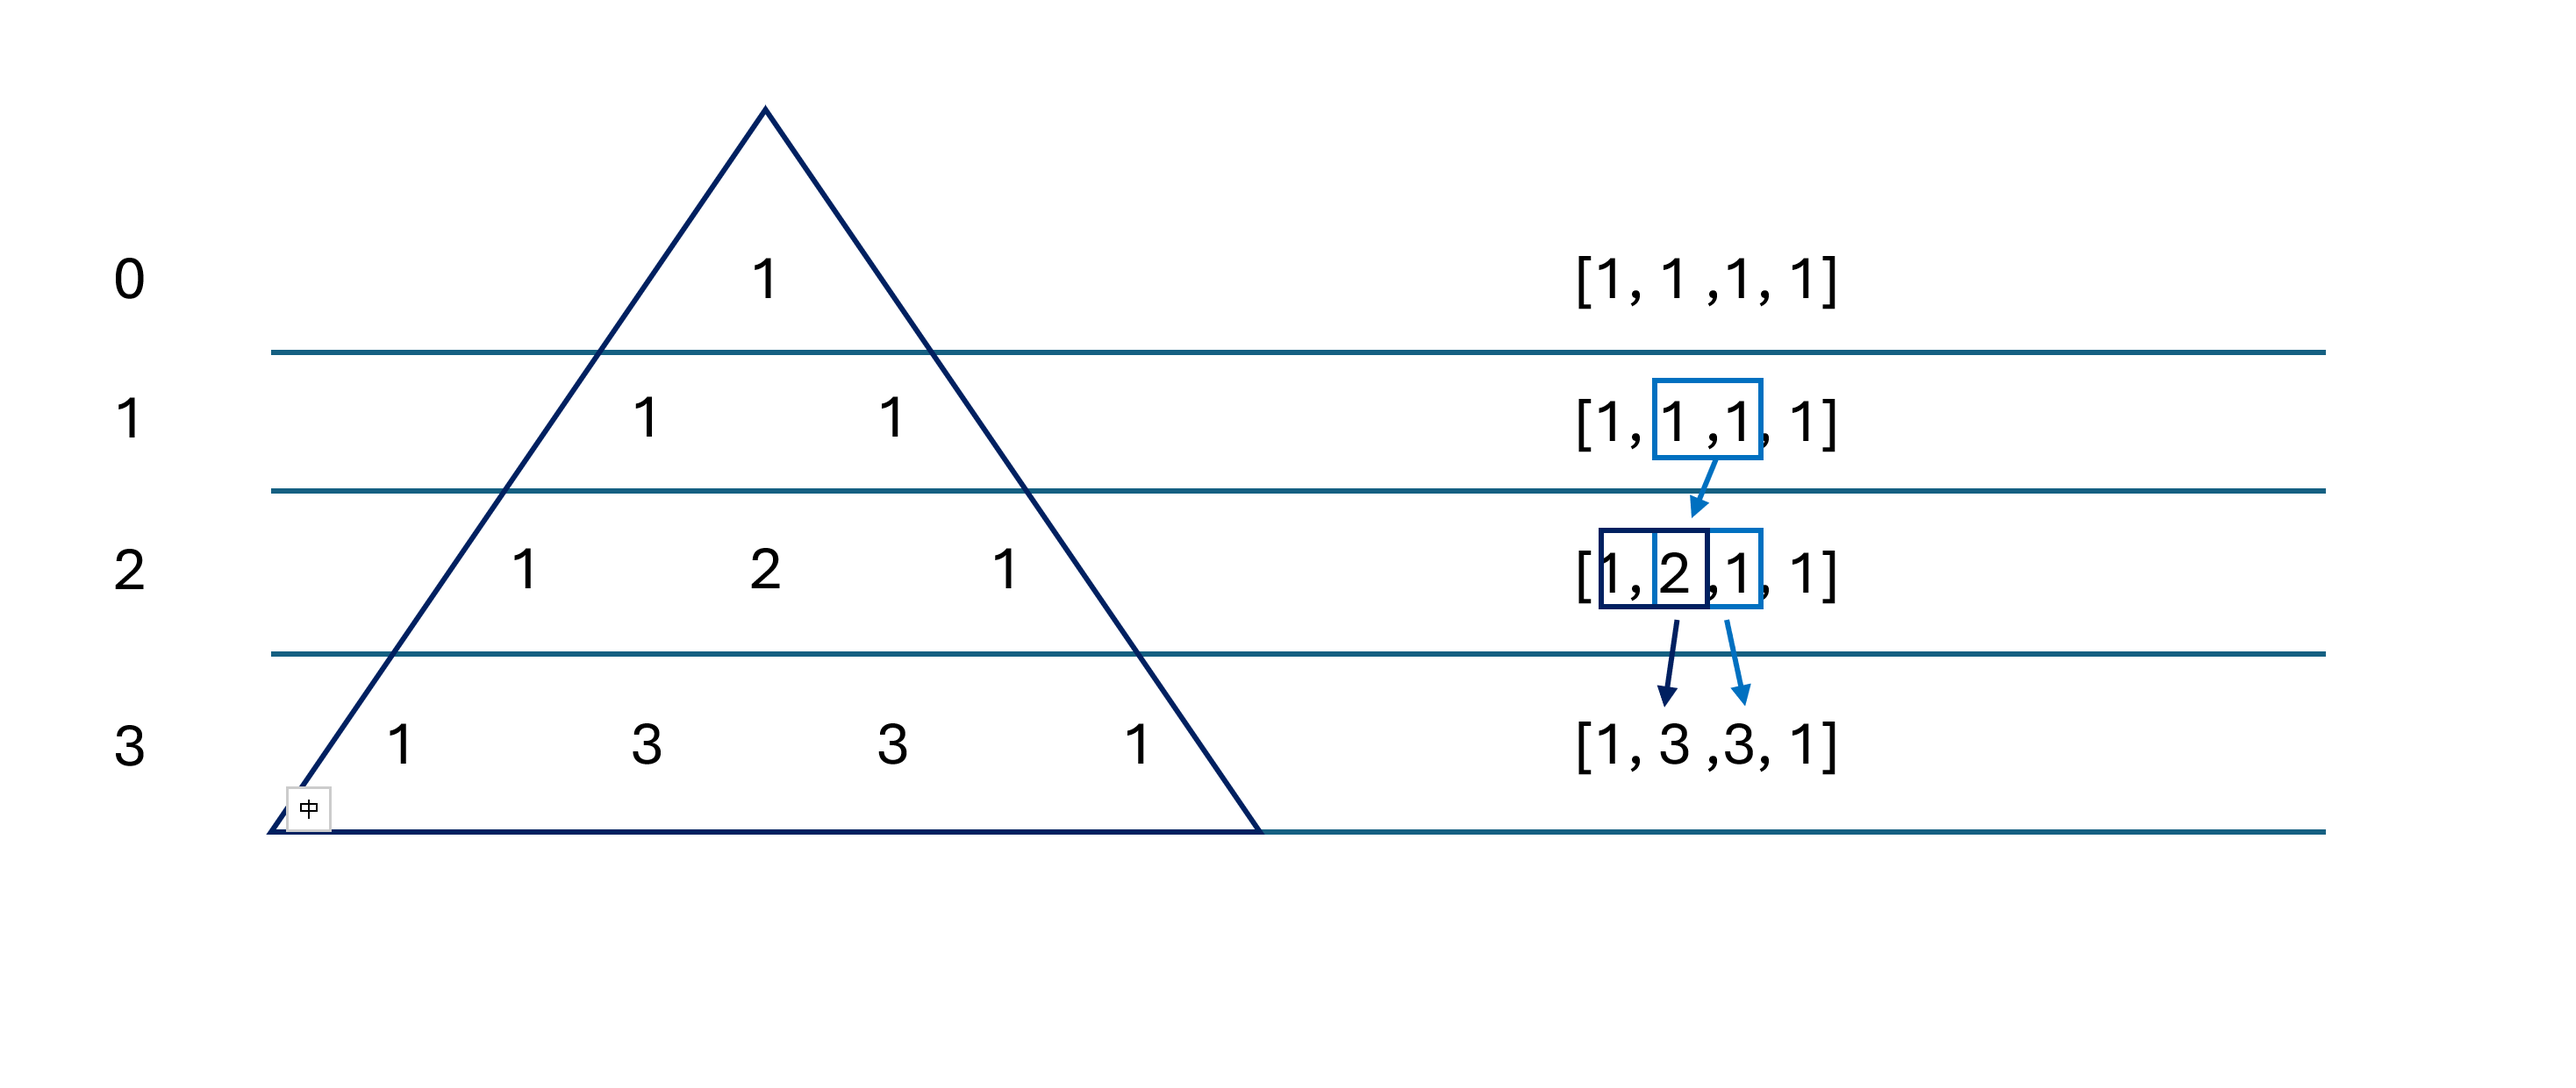
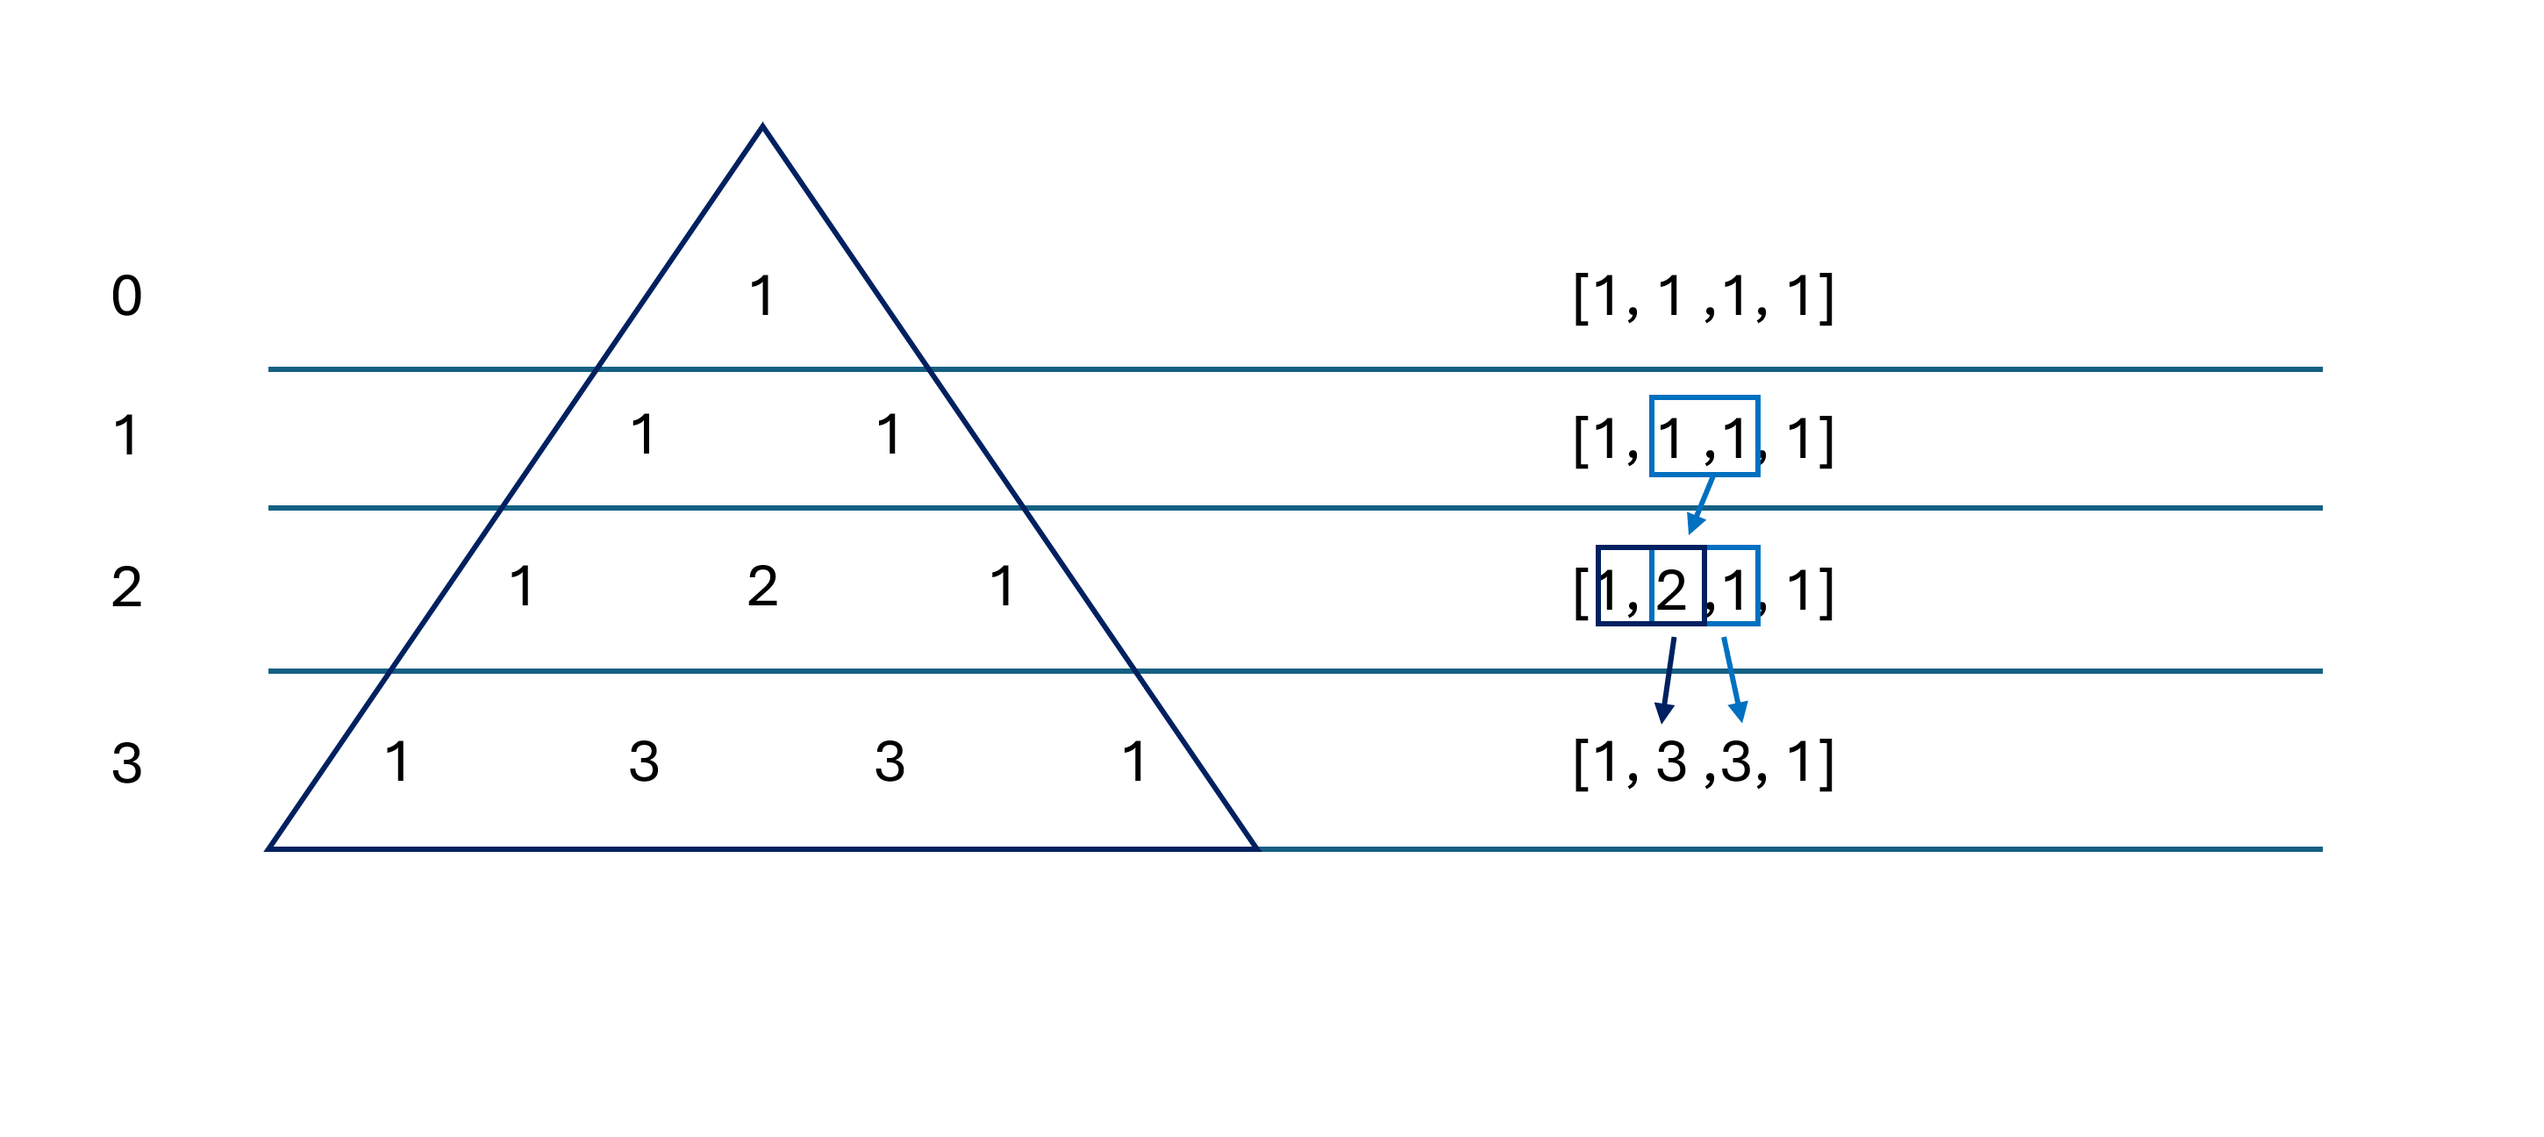
update: 119. Pascal's Triangle II

diff --git a/Easy/0119-Pascal's-Triangle-II/README.md b/Easy/0119-Pascal's-Triangle-II/README.md
@@ -21,4 +21,4 @@ Construct an array of all 1s to represent the target row. For each level, update
 |   | Complexity | Explanation |
 |--------|-----------|-------------|
 | **Time** | O(n ^ 2) | The outer loop runs up to `rowIndex` times, and the inner loop runs up to `rowIndex` times. |
-| **Space** | O(n) | Only a single array of length `rowIndex + 1` is used. |
+| **Space** | O(n) | Only a single array of length `rowIndex + 1` is used.
